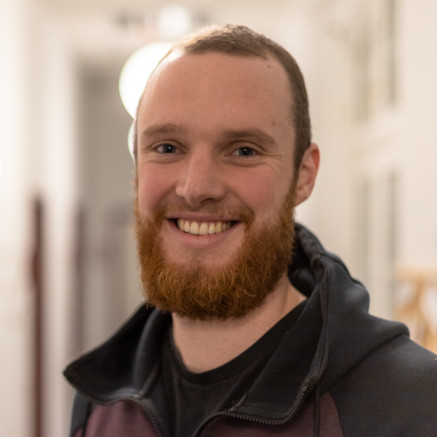
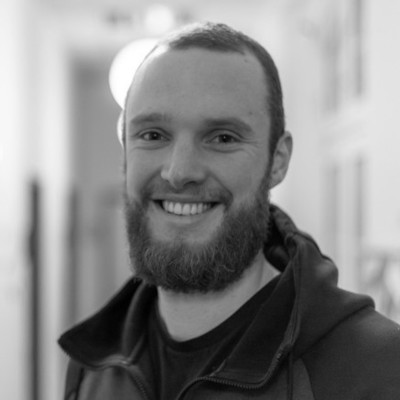
- optimized team images

diff --git a/src/components/Team.vue b/src/components/Team.vue
@@ -64,11 +64,11 @@ export default {
     data (){
         return {
             teams:[
-                {title: "Timo Lundelius", designation: "Code for Hamburg e.V.", thumb: require("../assets/img/team/timo.png")},
+                {title: "Timo Lundelius", designation: "Code for Hamburg e.V.", thumb: require("../assets/img/team/timo.jpg")},
                 {title: "Sven Tetzlaff", designation: "Körber-Stiftung", thumb: require("../assets/img/team/sven.jpg")},
                 {title: "Michael Peters", designation: "OKF DE e.V.", thumb: require("../assets/img/team/michael.jpg")},
                 {title: "Julia Thomaschki", designation: "Code for Hamburg e.V.", thumb: require("../assets/img/team/julia.jpg")},
-                {title: "Hannes Hasenpatt", designation: "Körber-Stiftung", thumb: require("../assets/img/team/hannes.png")},
+                {title: "Hannes Hasenpatt", designation: "Körber-Stiftung", thumb: require("../assets/img/team/hannes.jpg")},
                 {title: "Feena Fensky", designation: "Code for Hamburg e.V.", thumb: require("../assets/img/team/feena.jpg")},
                 {title: "Christian Wittig", designation: "Code for Hamburg e.V.", thumb: require("../assets/img/team/christian.jpg")},
             ],
